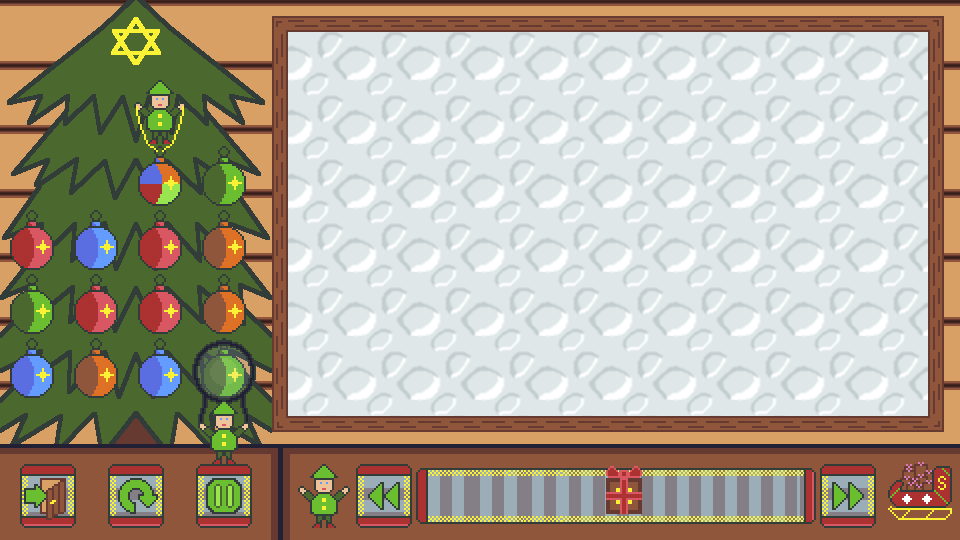
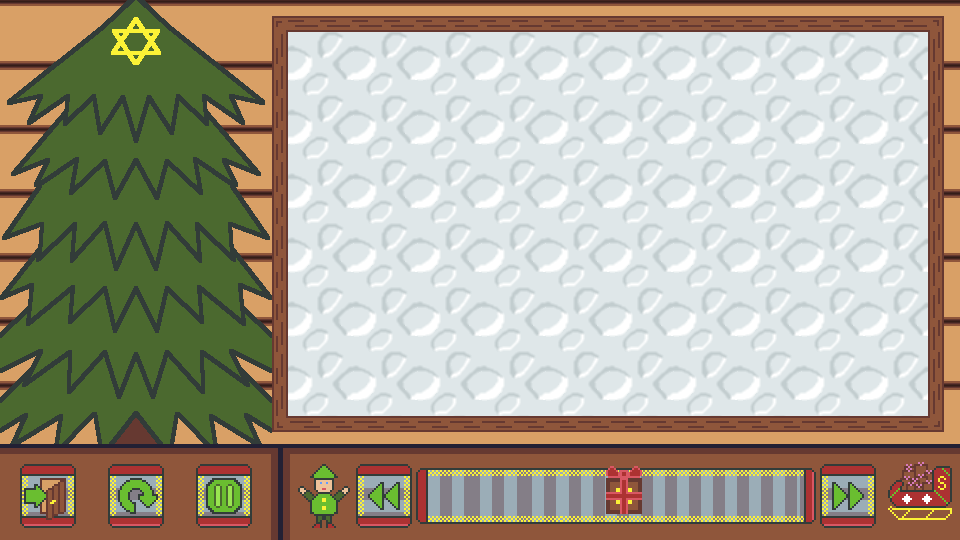
Added bauble update logic

Changed region(s): [[0.0, 0.1481, 0.2812, 0.8593]]

diff --git a/src/PlayScene.ts b/src/PlayScene.ts
@@ -112,13 +112,14 @@ export default class PlayScene extends Phaser.Scene {
         this.pause_button = this.add.image(192, button_y, "pause").setOrigin(0, 0).setInteractive().setScale(2);
         
         // Place the baubles on the Christmas Tree
-        for (let x = 0; x < CHRISTMAS_TREE_WIDTH; x += 1)
+        for (let y = 0; y < CHRISTMAS_TREE_HEIGHT; y += 1)
         {
-            for (let y = 0; y < CHRISTMAS_TREE_HEIGHT; y += 1)
+            for (let x = 0; x < CHRISTMAS_TREE_WIDTH; x += 1)
             {
-                this.christmas_tree_baubles.push(this.add.image(CHRISTMAS_TREE_LEFT + (x * 64), CHRISTMAS_TREE_TOP + (y * 64), "bauble_red").setOrigin(0, 0).setScale(2).setVisible(true));
+                this.christmas_tree_baubles.push(this.add.image(CHRISTMAS_TREE_LEFT + (x * 64), CHRISTMAS_TREE_TOP + (y * 64), "bauble_red").setOrigin(0, 0).setScale(2).setVisible(false));
             }
         }
+        this.christmas_tree_baubles.reverse();
         // Add the read head and the writer
         this.write_elf = this.add.image(CHRISTMAS_TREE_LEFT, CHRISTMAS_TREE_TOP - 64, "write_elf").setOrigin(0, 0).setScale(2);
         this.add.image(CHRISTMAS_TREE_LEFT + (64 * (CHRISTMAS_TREE_WIDTH - 1)), CHRISTMAS_TREE_TOP + ((CHRISTMAS_TREE_HEIGHT - 1) * 64), "read_elf").setOrigin(0, 0).setScale(2);
@@ -126,13 +127,14 @@ export default class PlayScene extends Phaser.Scene {
         // Add the tinsel, which is a bit complicated.
         for (let y = 0; y < CHRISTMAS_TREE_HEIGHT; y += 1)
         {
-            this.christmas_tree_tinsel.push(this.add.image(CHRISTMAS_TREE_LEFT + 32, CHRISTMAS_TREE_TOP + (64 * y), "tinsel", 1).setOrigin(0, 0).setScale(2));
-            this.christmas_tree_tinsel.push(this.add.image(CHRISTMAS_TREE_LEFT + 64, CHRISTMAS_TREE_TOP + (64 * y), "tinsel", 2).setOrigin(0, 0).setScale(2));
-            this.christmas_tree_tinsel.push(this.add.image(CHRISTMAS_TREE_LEFT + 96, CHRISTMAS_TREE_TOP + (64 * y), "tinsel", 1).setOrigin(0, 0).setScale(2));
-            this.christmas_tree_tinsel.push(this.add.image(CHRISTMAS_TREE_LEFT + 128, CHRISTMAS_TREE_TOP + (64 * y), "tinsel", 2).setOrigin(0, 0).setScale(2));
-            this.christmas_tree_tinsel.push(this.add.image(CHRISTMAS_TREE_LEFT + 160, CHRISTMAS_TREE_TOP + (64 * y), "tinsel", 1).setOrigin(0, 0).setScale(2));
-            this.christmas_tree_tinsel.push(this.add.image(CHRISTMAS_TREE_LEFT + 192, CHRISTMAS_TREE_TOP + (64 * y), "tinsel", 2).setOrigin(0, 0).setScale(2));
+            this.christmas_tree_tinsel.push(this.add.image(CHRISTMAS_TREE_LEFT + 32, CHRISTMAS_TREE_TOP + (64 * y), "tinsel", 1).setOrigin(0, 0).setScale(2).setVisible(false));
+            this.christmas_tree_tinsel.push(this.add.image(CHRISTMAS_TREE_LEFT + 64, CHRISTMAS_TREE_TOP + (64 * y), "tinsel", 2).setOrigin(0, 0).setScale(2).setVisible(false));
+            this.christmas_tree_tinsel.push(this.add.image(CHRISTMAS_TREE_LEFT + 96, CHRISTMAS_TREE_TOP + (64 * y), "tinsel", 1).setOrigin(0, 0).setScale(2).setVisible(false));
+            this.christmas_tree_tinsel.push(this.add.image(CHRISTMAS_TREE_LEFT + 128, CHRISTMAS_TREE_TOP + (64 * y), "tinsel", 2).setOrigin(0, 0).setScale(2).setVisible(false));
+            this.christmas_tree_tinsel.push(this.add.image(CHRISTMAS_TREE_LEFT + 160, CHRISTMAS_TREE_TOP + (64 * y), "tinsel", 1).setOrigin(0, 0).setScale(2).setVisible(false));
+            this.christmas_tree_tinsel.push(this.add.image(CHRISTMAS_TREE_LEFT + 192, CHRISTMAS_TREE_TOP + (64 * y), "tinsel", 2).setOrigin(0, 0).setScale(2).setVisible(false));
         }
+        this.christmas_tree_tinsel.reverse();
 
         // Hide play to toggle with pause
         this.play_button.setVisible(false).setActive(false);
@@ -209,6 +211,7 @@ export default class PlayScene extends Phaser.Scene {
         this.active_baubles = Object.assign([], this.test_result.baubles);
         this.active_step = 0;
         this.playing = true;
+        this.update_baubles();
 
         // Decide what a sensible play speed is!!
         this.play_speed = 2;
@@ -446,18 +449,9 @@ export default class PlayScene extends Phaser.Scene {
         }
     }
     
-    set_baubles(baubles: Bauble[])
+    update_baubles()
     {
         // Draw all the baubles on the Christmas tree (that can fit)
-        while(this.active_baubles.length)
-        {
-            this.active_baubles.pop();
-        }
-        for (let i = 0; i < baubles.length; i += 1)
-        {
-            this.active_baubles.push(baubles[i]);
-        }
-
         // Clear the screen...
         for (let i = 0; i < this.christmas_tree_baubles.length; i += 1)
         {
@@ -469,21 +463,25 @@ export default class PlayScene extends Phaser.Scene {
         }
         
         // Now make the baubles have the correct colours...
-        for (let i = 0; i < baubles.length; i += 1)
+        for (let i = 0; i < this.active_baubles.length; i += 1)
         {
-            if (baubles[i] == Bauble.Red)
+            if (i >= CHRISTMAS_TREE_SIZE)
+            {
+                break;
+            }
+            if (this.active_baubles[i] == Bauble.Red)
             {
                 this.christmas_tree_baubles[i].setTexture("bauble_red");
             }
-            else if (baubles[i] == Bauble.Blue)
+            else if (this.active_baubles[i] == Bauble.Blue)
             {
                 this.christmas_tree_baubles[i].setTexture("bauble_blue");
             }
-            else if (baubles[i] == Bauble.Green)
+            else if (this.active_baubles[i] == Bauble.Green)
             {
                 this.christmas_tree_baubles[i].setTexture("bauble_green");
             }
-            else if (baubles[i] == Bauble.Orange)
+            else if (this.active_baubles[i] == Bauble.Orange)
             {
                 this.christmas_tree_baubles[i].setTexture("bauble_orange");
             }
@@ -491,40 +489,52 @@ export default class PlayScene extends Phaser.Scene {
         }
 
         // Make the right tinsel visible.
-        for (let i = 0; i < baubles.length; i += 4)
+        for (let i = 0; i < this.active_baubles.length; i += 4)
         {
             if (i >= CHRISTMAS_TREE_SIZE) 
             {
                 break;
             }
+            const tinsel_base_index = (Math.floor(i / 4)) * 3;
+
             // This is fiddly enough we just brute force the calculation...
-            this.christmas_tree_tinsel[i * 2].setVisible(true);
-            this.christmas_tree_tinsel[(i * 2) + 1].setVisible(true);
+            this.christmas_tree_tinsel[tinsel_base_index * 2].setVisible(true);
+            this.christmas_tree_tinsel[(tinsel_base_index * 2) + 1].setVisible(true);
             
-            if (i + 1 < baubles.length)
+            if (i + 1 < this.active_baubles.length)
             {
-                this.christmas_tree_tinsel[(i * 2) + 2].setVisible(true);
-                this.christmas_tree_tinsel[(i * 2) + 3].setVisible(true);
+                this.christmas_tree_tinsel[(tinsel_base_index * 2) + 2].setVisible(true);
+                this.christmas_tree_tinsel[(tinsel_base_index * 2) + 3].setVisible(true);
             }
-            if (i + 2 < baubles.length)
+            if (i + 2 < this.active_baubles.length)
             {
-                this.christmas_tree_tinsel[(i * 2) + 4].setVisible(true);
-                this.christmas_tree_tinsel[(i * 2) + 5].setVisible(true);
+                this.christmas_tree_tinsel[(tinsel_base_index * 2) + 4].setVisible(true);
+                this.christmas_tree_tinsel[(tinsel_base_index * 2) + 5].setVisible(true);
             }
         }
 
         // Finally place the write head
+        let write_index = this.active_baubles.length;
+        console.log("Bauble length " + write_index);
+        if (this.active_baubles.length >= CHRISTMAS_TREE_SIZE - 1)
+        {
+            write_index = CHRISTMAS_TREE_SIZE - 1;
+        }
+        this.write_elf.setX(this.christmas_tree_baubles[write_index].x);
+        this.write_elf.setY(this.christmas_tree_baubles[write_index].y - 64);
     }
 
     add_bauble(bauble: Bauble)
     {
         // TODO: add the bauble to the tree
         this.active_baubles.push(bauble);
+        this.update_baubles();
     }
 
     remove_bauble()
     {
         // TODO: remove the bauble from the tree
         this.active_baubles.shift();
+        this.update_baubles();
     }
 }
